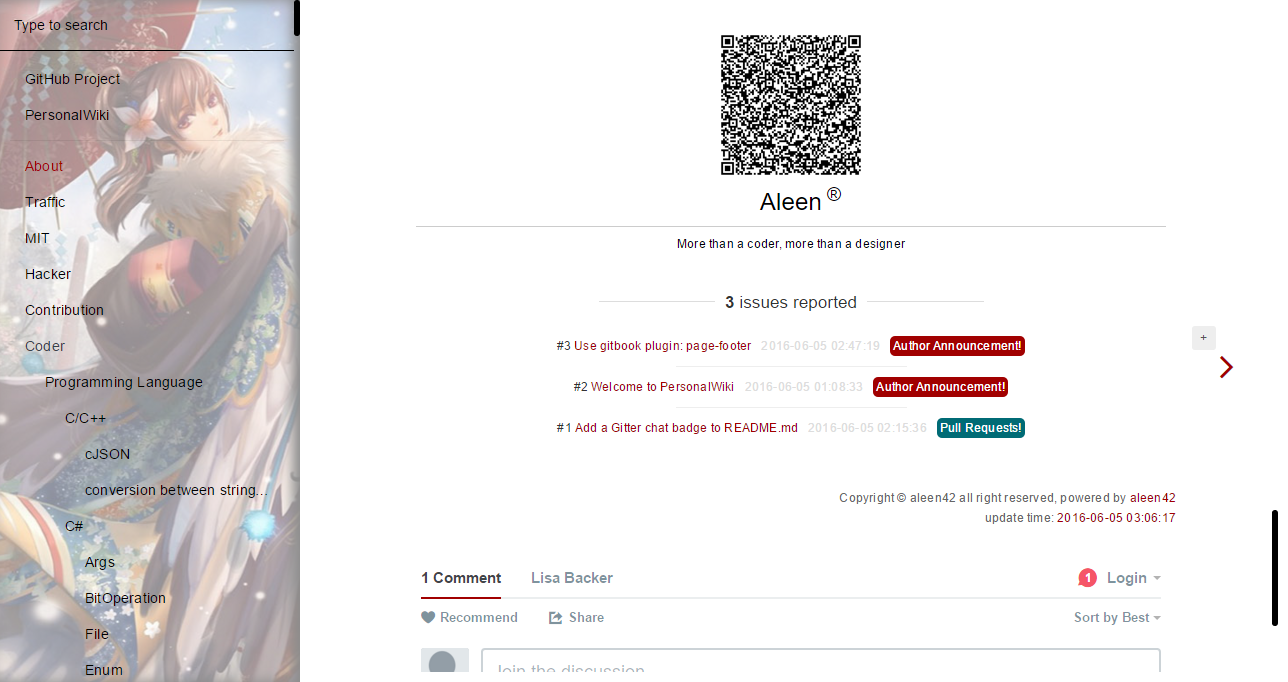
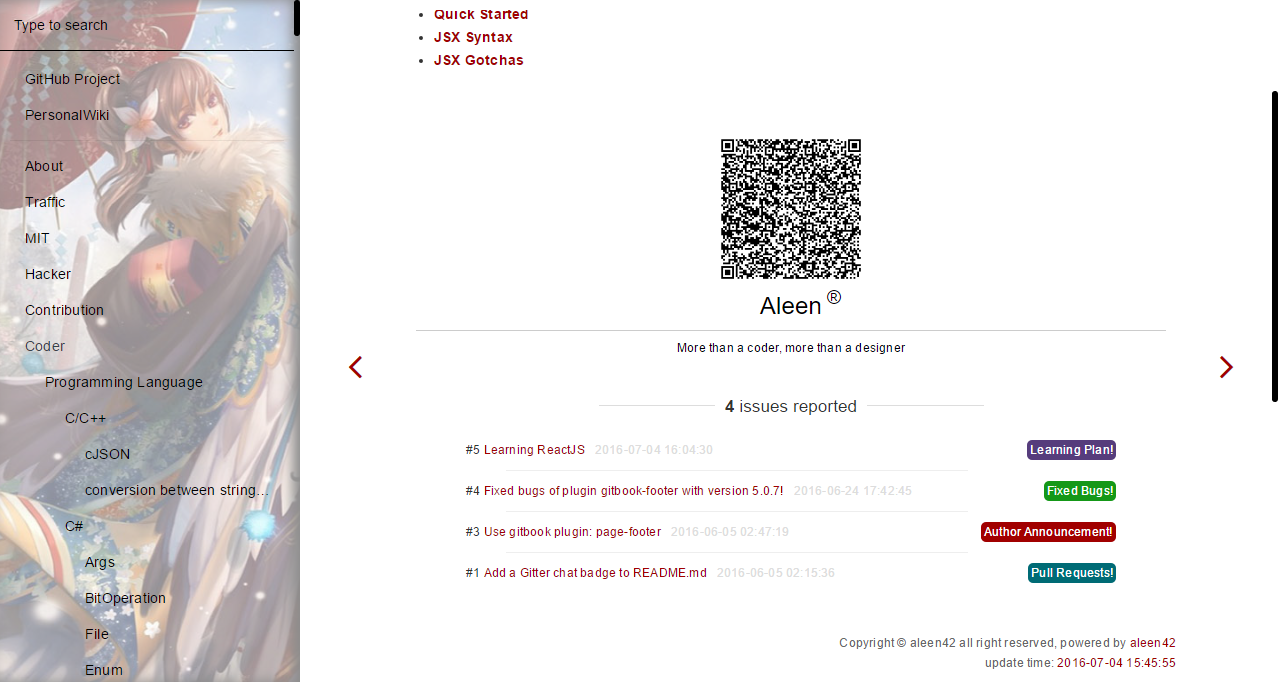
update style

diff --git a/assets/footer.css b/assets/footer.css
@@ -55,14 +55,33 @@
 
 .issue-edge {
     border-top: 1px solid #eee;
-    width: 60%;
-    margin: 0 0 auto 100px !important;
 }
 
 .issues {
-    padding: 10px 60px !important;
     margin: 0 !important;
     text-align: left;
+}
+
+@media screen and (min-width: 720px) {
+    .issue-edge {
+        width: 60%;
+        margin: 0 0 auto 100px !important;
+    }
+
+    .issues {
+        padding: 10px 60px !important;
+    }
+}
+
+@media screen and (max-width: 720px) {
+    .issue-edge {
+        width: 30%;
+        margin: 0 0 auto 20px !important;
+    }
+
+    .issues {
+        padding: 10px !important;
+    }
 }
 
 /**

diff --git a/README.md b/README.md
@@ -158,6 +158,7 @@ npm test
 	* 5.1.0 fix bugs
 	* 5.1.1 update styles
 	* 5.1.2 update styles
+	* 5.1.3 update styles
 
 #### :fuelpump: How to contribute
 
